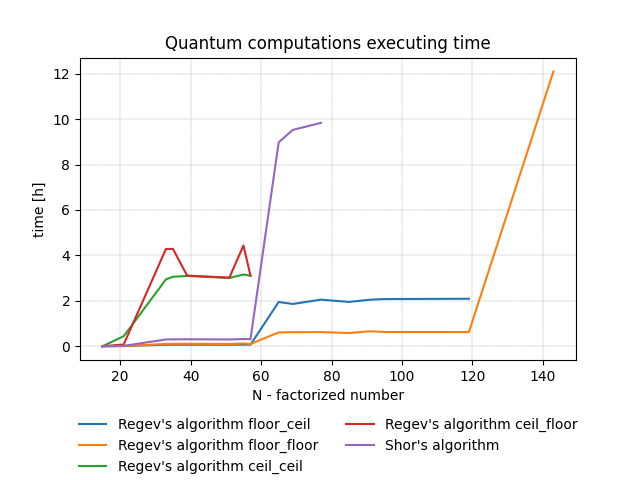
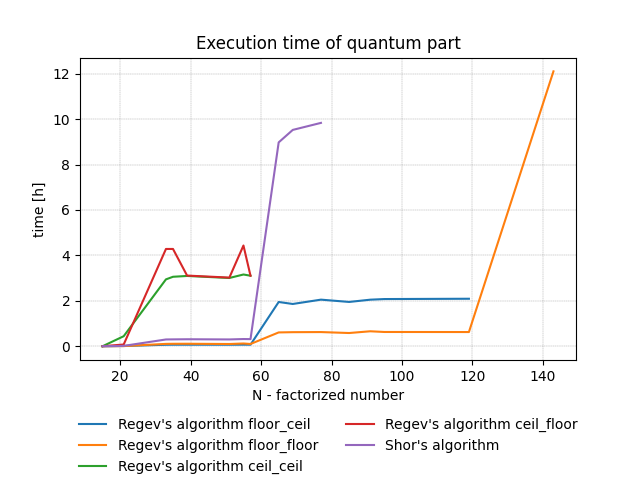
Adding plots

Changed region(s): [[0.4375, 0.0625, 0.7812, 0.125], [0.25, 0.0625, 0.4062, 0.125]]

diff --git a/utils/plots/classical_part_time_whole_range.py b/utils/plots/classical_part_time_whole_range.py
@@ -4,7 +4,7 @@ sys.path.insert(1, './extract_data')
 from extract_data_from_classical_part import extract_data
 
 
-N = [15, 21, 33, 35, 39, 51, 55, 57]
+N = [15, 21, 33, 35, 39, 51, 55, 57, 65, 69, 77, 85, 91, 95, 119, 143]
 time_ceil_ceil = extract_data("ceil_ceil", 1, len(N))[-1]
 time_ceil_floor = extract_data("ceil_floor", 1, len(N))[-1]
 time_floor_ceil = extract_data("floor_ceil", 1, len(N))[-1]
@@ -32,4 +32,4 @@ plt.title("Execution time of classical part")
 plt.subplots_adjust(bottom=0.35)
 plt.legend(loc='upper center', bbox_to_anchor=(0.5, -0.15), ncol=1, frameon=False)
 plt.grid(color='gray', linestyle='--', linewidth=0.25)
-plt.savefig("./../../images/plots/classical_part_time.png")
+plt.savefig("./../../images/plots/classical_part_time_whole_range.png")

diff --git a/utils/plots/regev_quantum_part_all.py b/utils/plots/regev_quantum_part_all.py
@@ -26,7 +26,7 @@ plt.plot(N[:len(regev_floor_floor_h)], regev_floor_floor_h, label="Regev's algor
 plt.plot(N[:len(regev_ceil_ceil_h)], regev_ceil_ceil_h, label="Regev's algorithm ceil_ceil")
 plt.plot(N[:len(regev_ceil_floor_h)], regev_ceil_floor_h, label="Regev's algorithm ceil_floor")
 plt.plot(N[:len(shor_h)], shor_h, label="Shor's algorithm")
-plt.title("Quantum computations executing time")
+plt.title("Execution time of quantum part")
 # plt.legend(bbox_to_anchor=(0, 0.92, 1, 0.2), loc="lower left", mode="expand", borderaxespad=0, ncol=3)
 plt.subplots_adjust(bottom=0.25)
 plt.legend(loc='upper center', bbox_to_anchor=(0.5, -0.15), ncol=2, frameon=False)
